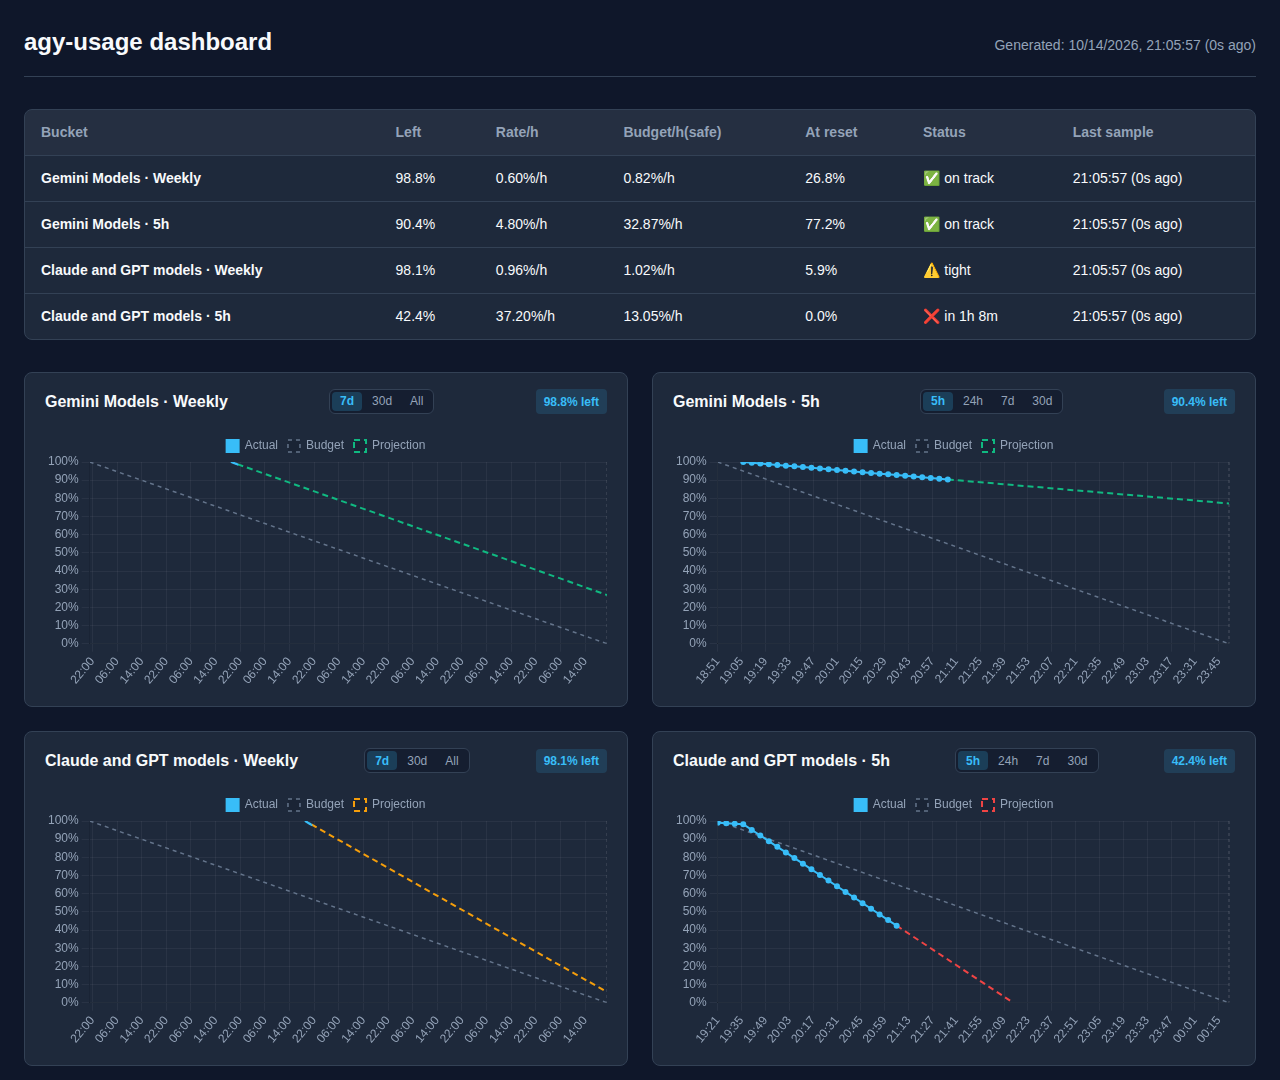
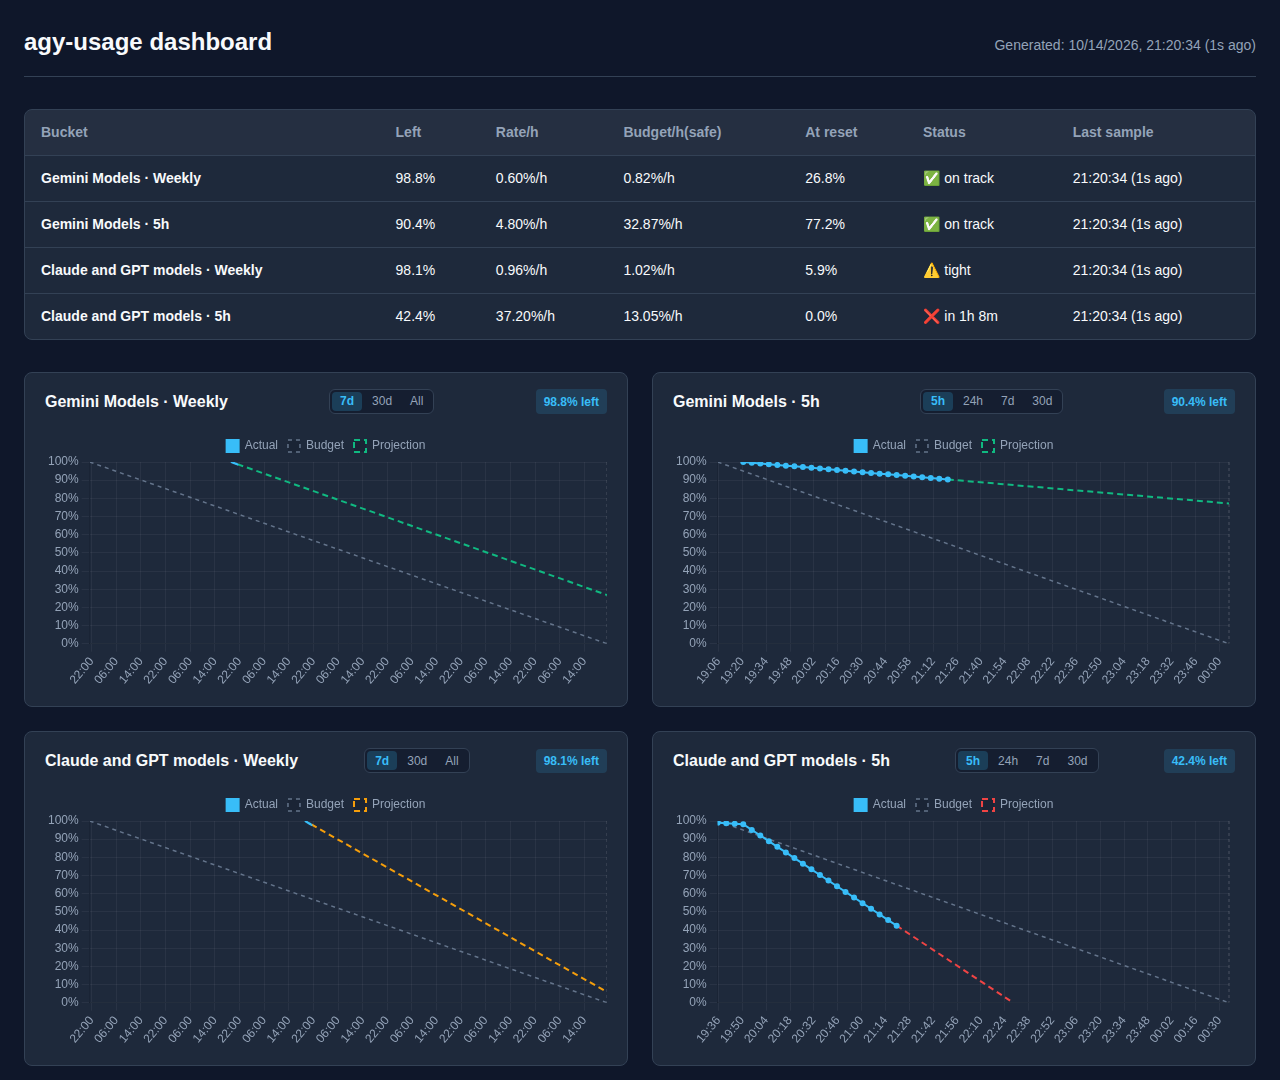
feat(dashboard): default 5h charts to 5h and weekly charts to 7d (#10)
* feat(dashboard): default 5h charts to 5h and weekly charts to 7d

* fix(dashboard): clamp viewport min to lastSampleMs and restore weekly boundaries

* style(dashboard): remove stray indentation change

---------

diff --git a/assets/dashboard.html b/assets/dashboard.html
@@ -353,15 +353,15 @@
                 const is5h = !!rep.window && rep.window.toLowerCase() === '5h';
                 const rangeHtml = isDis ? '' : (is5h ? `
                     <div class="range-toggle" role="group" aria-label="Time range" data-idx="${idx}">
-                        <button type="button" class="range-btn" data-range="5h" aria-pressed="false">5h</button>
-                        <button type="button" class="range-btn active" data-range="24h" aria-pressed="true">24h</button>
+                        <button type="button" class="range-btn active" data-range="5h" aria-pressed="true">5h</button>
+                        <button type="button" class="range-btn" data-range="24h" aria-pressed="false">24h</button>
                         <button type="button" class="range-btn" data-range="7d" aria-pressed="false">7d</button>
                         <button type="button" class="range-btn" data-range="30d" aria-pressed="false">30d</button>
                     </div>
                 ` : `
                     <div class="range-toggle" role="group" aria-label="Time range" data-idx="${idx}">
-                        <button type="button" class="range-btn" data-range="7d" aria-pressed="false">7d</button>
-                        <button type="button" class="range-btn active" data-range="30d" aria-pressed="true">30d</button>
+                        <button type="button" class="range-btn active" data-range="7d" aria-pressed="true">7d</button>
+                        <button type="button" class="range-btn" data-range="30d" aria-pressed="false">30d</button>
                         <button type="button" class="range-btn" data-range="all" aria-pressed="false">All</button>
                     </div>
                 `);
@@ -456,7 +456,8 @@
                     const rawLastMs = p.last_sample ? new Date(p.last_sample).getTime() : NaN;
                     const lastSampleMs = !isNaN(rawLastMs) ? rawLastMs : nowMs;
                     const endMs = (!isNaN(resetMs) && resetMs > nowMs) ? resetMs : Math.max(nowMs, lastSampleMs);
-                    const initialMin = is5h ? (endMs - 24 * 3600 * 1000) : (endMs - 30 * 86400 * 1000);
+                    const rawMin = is5h ? (endMs - 5 * 3600 * 1000) : (endMs - 7 * 86400 * 1000);
+                    const initialMin = Math.min(rawMin, lastSampleMs);
 
                     const chart = new Chart(canvas, {
                         type: 'line',
@@ -522,21 +523,21 @@
                             let handled = true;
 
                             if (range === '5h') {
-                                chart.options.scales.x.min = endMs - 5 * 3600 * 1000;
+                                chart.options.scales.x.min = Math.min(endMs - 5 * 3600 * 1000, lastSampleMs);
                                 chart.options.scales.x.max = endMs;
                                 if (is5h) chart.options.plugins.boundaries.display = true;
                             } else if (range === '24h') {
-                                chart.options.scales.x.min = endMs - 24 * 3600 * 1000;
+                                chart.options.scales.x.min = Math.min(endMs - 24 * 3600 * 1000, lastSampleMs);
                                 chart.options.scales.x.max = endMs;
                                 if (is5h) chart.options.plugins.boundaries.display = true;
                             } else if (range === '7d') {
-                                chart.options.scales.x.min = endMs - 7 * 86400 * 1000;
+                                chart.options.scales.x.min = Math.min(endMs - 7 * 86400 * 1000, lastSampleMs);
                                 chart.options.scales.x.max = endMs;
-                                if (is5h) chart.options.plugins.boundaries.display = false;
+                                chart.options.plugins.boundaries.display = !is5h;
                             } else if (range === '30d') {
-                                chart.options.scales.x.min = endMs - 30 * 86400 * 1000;
+                                chart.options.scales.x.min = Math.min(endMs - 30 * 86400 * 1000, lastSampleMs);
                                 chart.options.scales.x.max = endMs;
-                                if (is5h) chart.options.plugins.boundaries.display = false;
+                                chart.options.plugins.boundaries.display = !is5h;
                             } else if (range === 'all') {
                                 delete chart.options.scales.x.min;
                                 chart.options.scales.x.max = endMs;

diff --git a/src/html.rs b/src/html.rs
@@ -302,27 +302,42 @@ mod tests {
         assert!(output.contains("boundaries?.display === false"));
         assert!(output.contains("!chart.chartArea || !chart.scales?.x"));
 
-        // Consistent 5h viewport bounds
-        assert!(output.contains("chart.options.scales.x.min = endMs - 5 * 3600 * 1000;"));
+        // Consistent 5h viewport bounds with lastSampleMs clamp against clock skew
+        assert!(output.contains(
+            "chart.options.scales.x.min = Math.min(endMs - 5 * 3600 * 1000, lastSampleMs);"
+        ));
 
-        // Window-aware defaults in chart initialization
+        // Boundary restoration on 7d/30d for weekly cards
+        assert!(output.contains("chart.options.plugins.boundaries.display = !is5h;"));
+
+        // Window-aware defaults in chart initialization: 5h defaults to 5h, weekly defaults to 7d
+        assert!(output.contains(
+            "const rawMin = is5h ? (endMs - 5 * 3600 * 1000) : (endMs - 7 * 86400 * 1000);"
+        ));
+        assert!(output.contains("const initialMin = Math.min(rawMin, lastSampleMs);"));
         assert!(output.contains("min: initialMin"));
         assert!(output.contains("max: endMs"));
         assert!(output.contains("chart.options.scales.x.min"));
         assert!(output.contains("chart.options.scales.x.max"));
         assert!(output.contains("chart.update('none')"));
 
-        // Template exclusivity: 5h template has 5h/24h default; weekly has 30d default
+        // Template exclusivity: 5h template has 5h active default; weekly has 7d active default
         let (_, range_section) = output
             .split_once("const rangeHtml = isDis ? '' : (is5h ? `")
             .expect("rangeHtml section found");
         let (h_5h, h_weekly) = range_section
             .split_once("` : `")
             .expect("both template branches present");
-        assert!(h_5h.contains("data-range=\"5h\""));
-        assert!(h_5h.contains("class=\"range-btn active\" data-range=\"24h\""));
+        assert!(h_5h.contains("class=\"range-btn active\" data-range=\"5h\""));
+        assert!(h_5h.contains("data-range=\"24h\""));
+        assert!(!h_5h.contains("class=\"range-btn active\" data-range=\"24h\""));
+        assert!(!h_5h.contains("class=\"range-btn active\" data-range=\"7d\""));
+        assert!(!h_5h.contains("class=\"range-btn active\" data-range=\"30d\""));
         assert!(!h_5h.contains("data-range=\"all\""));
-        assert!(h_weekly.contains("class=\"range-btn active\" data-range=\"30d\""));
+        assert!(h_weekly.contains("class=\"range-btn active\" data-range=\"7d\""));
+        assert!(h_weekly.contains("data-range=\"30d\""));
+        assert!(!h_weekly.contains("class=\"range-btn active\" data-range=\"30d\""));
+        assert!(!h_weekly.contains("class=\"range-btn active\" data-range=\"all\""));
         assert!(h_weekly.contains("data-range=\"all\""));
         assert!(!h_weekly.contains("data-range=\"5h\""));
         assert!(!h_weekly.contains("data-range=\"24h\""));

diff --git a/examples/generate_screenshots.rs b/examples/generate_screenshots.rs
@@ -374,21 +374,6 @@ fn main() -> anyhow::Result<()> {
         .replace(
             "transition: color 0.15s ease, background 0.15s ease;",
             "transition: none !important;",
-        )
-        // Set 5h active by default for 5-hour cards in the preview screenshot
-        .replace(
-            "<button type=\"button\" class=\"range-btn\" data-range=\"5h\" aria-pressed=\"false\">5h</button>\n                        <button type=\"button\" class=\"range-btn active\" data-range=\"24h\" aria-pressed=\"true\">24h</button>",
-            "<button type=\"button\" class=\"range-btn active\" data-range=\"5h\" aria-pressed=\"true\">5h</button>\n                        <button type=\"button\" class=\"range-btn\" data-range=\"24h\" aria-pressed=\"false\">24h</button>",
-        )
-        // Set 7d active by default for weekly cards in the preview screenshot
-        .replace(
-            "<button type=\"button\" class=\"range-btn\" data-range=\"7d\" aria-pressed=\"false\">7d</button>\n                        <button type=\"button\" class=\"range-btn active\" data-range=\"30d\" aria-pressed=\"true\">30d</button>",
-            "<button type=\"button\" class=\"range-btn active\" data-range=\"7d\" aria-pressed=\"true\">7d</button>\n                        <button type=\"button\" class=\"range-btn\" data-range=\"30d\" aria-pressed=\"false\">30d</button>",
-        )
-        // Set initial viewports to 5h and 7d directly
-        .replace(
-            "const initialMin = is5h ? (endMs - 24 * 3600 * 1000) : (endMs - 30 * 86400 * 1000);",
-            "const initialMin = is5h ? (endMs - 5 * 3600 * 1000) : (endMs - 7 * 86400 * 1000);",
         );
 
     anyhow::ensure!(
@@ -401,11 +386,11 @@ fn main() -> anyhow::Result<()> {
     );
     anyhow::ensure!(
         html_content.contains("class=\"range-btn active\" data-range=\"5h\""),
-        "Failed to set 5h range button active in dashboard HTML"
+        "Expected 5h range button active in dashboard HTML"
     );
     anyhow::ensure!(
         html_content.contains("class=\"range-btn active\" data-range=\"7d\""),
-        "Failed to set 7d range button active in dashboard HTML"
+        "Expected 7d range button active in dashboard HTML"
     );
 
     let target_dir = Path::new("target");

diff --git a/README.md b/README.md
@@ -19,7 +19,7 @@ Quota history, burn-rate prognosis, and interactive TUI/HTML dashboards for Goog
 
 [![HTML Web Dashboard](https://raw.githubusercontent.com/danieljov/agy-usage/main/assets/screenshots/dashboard.png)](https://danieljov.github.io/agy-usage)
 
-Features **window-aware defaults** (5h charts default to 24h, weekly to 30d) and **client-side range toggles** (`5h`, `24h`, `7d`, `30d`, `All`) with automatic reset line decluttering past 48h and 100% offline vendored assets.
+Features **window-aware defaults** (5h charts default to 5h, weekly to 7d) and **client-side range toggles** (`5h`, `24h`, `7d`, `30d`, `All`) with automatic reset line decluttering past 48h and 100% offline vendored assets.
 
 The [live demo](https://danieljov.github.io/agy-usage) is rendered from synthetic data and rebuilt every 6 hours (as well as on pushes to `main`) via GitHub Actions (`cargo run --example generate_demo`). Relative timestamps and exhaustion prognoses reflect the state at the last deployment.
 
